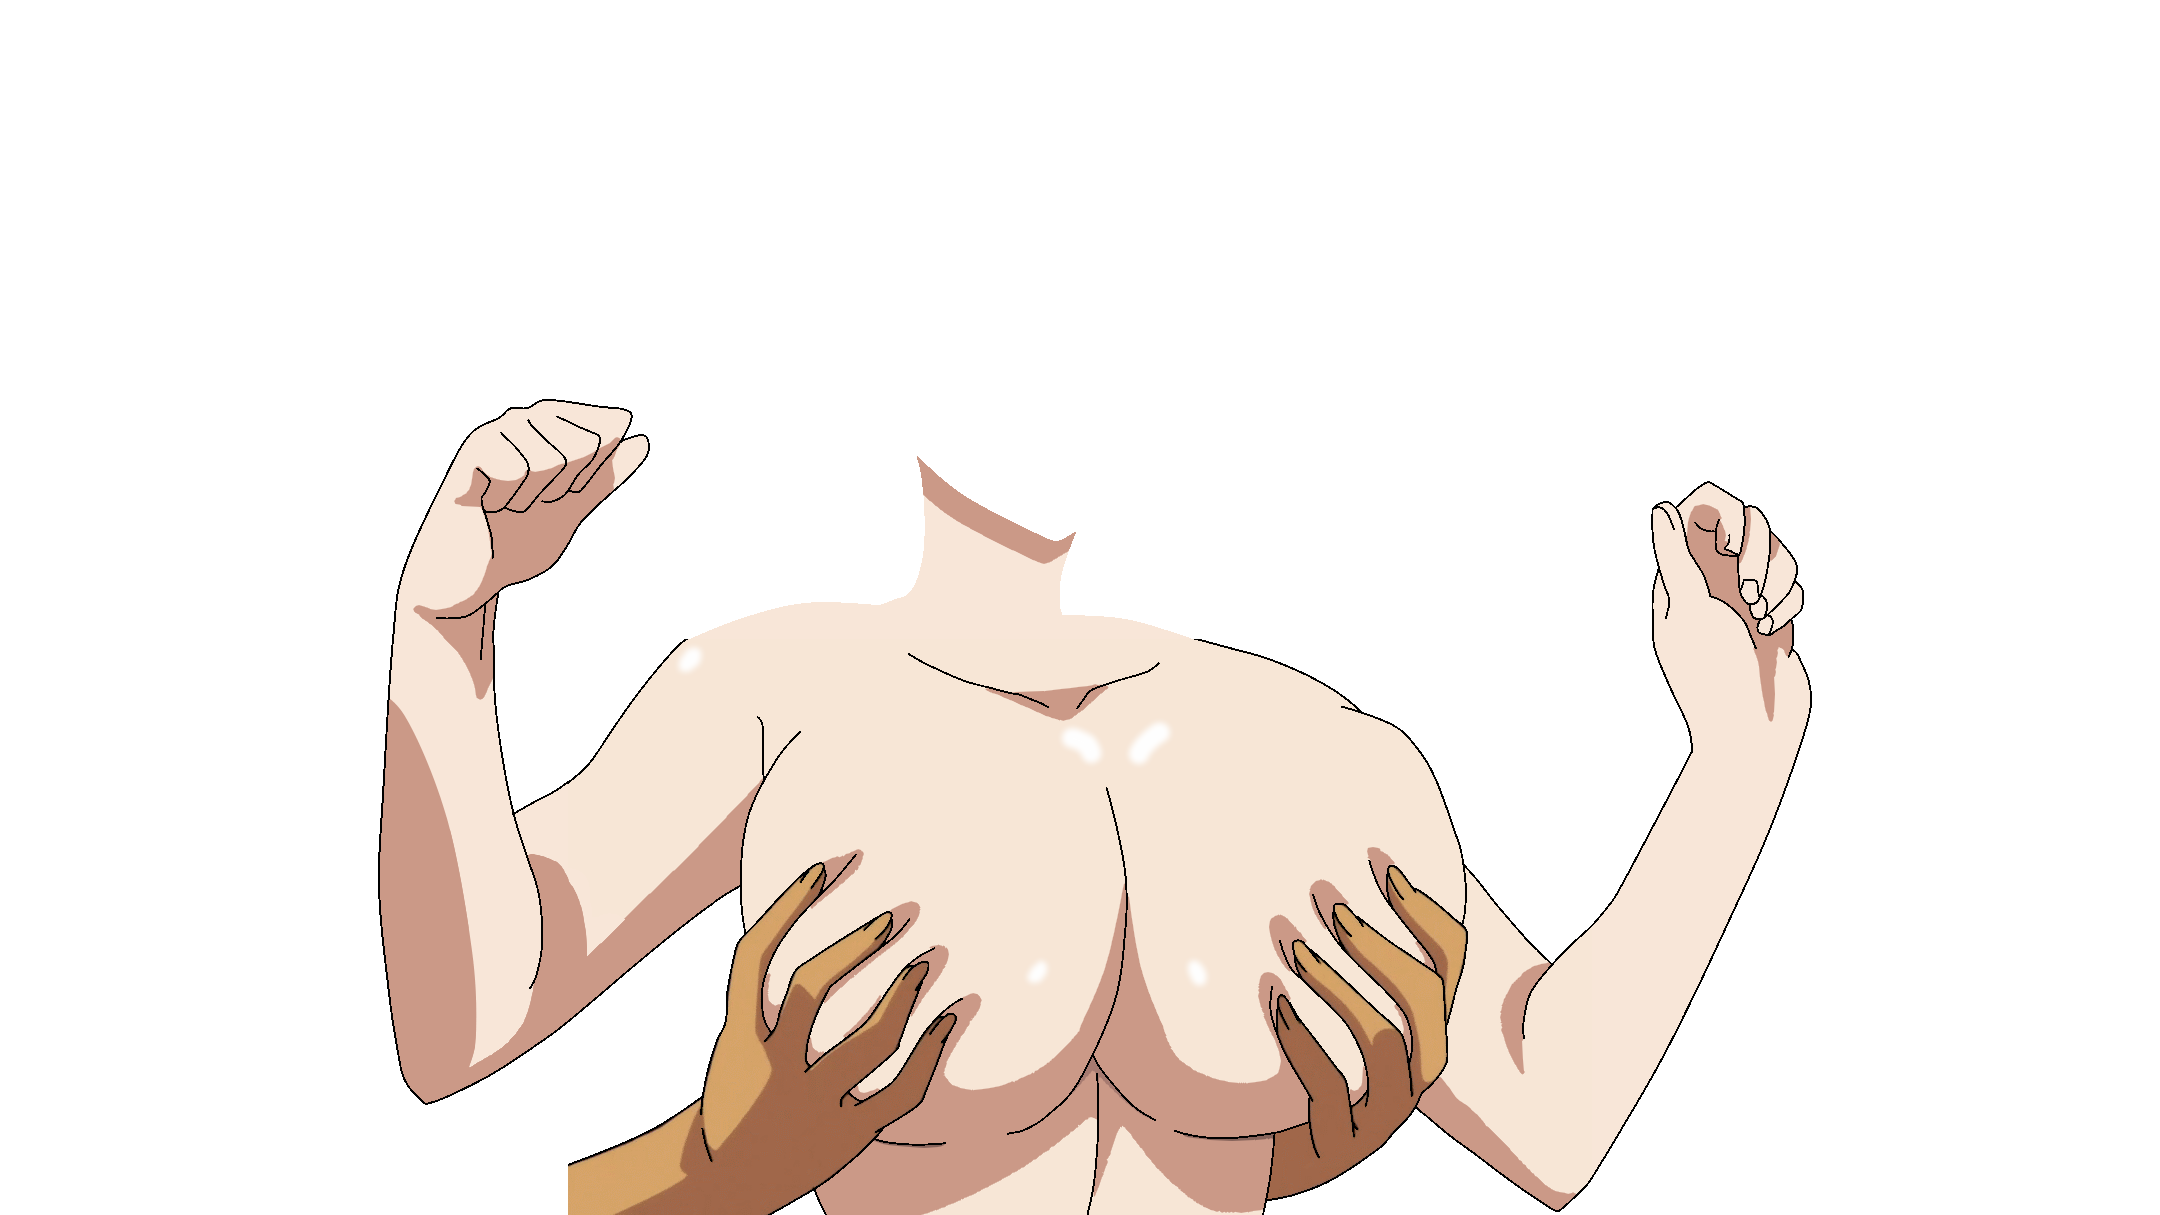
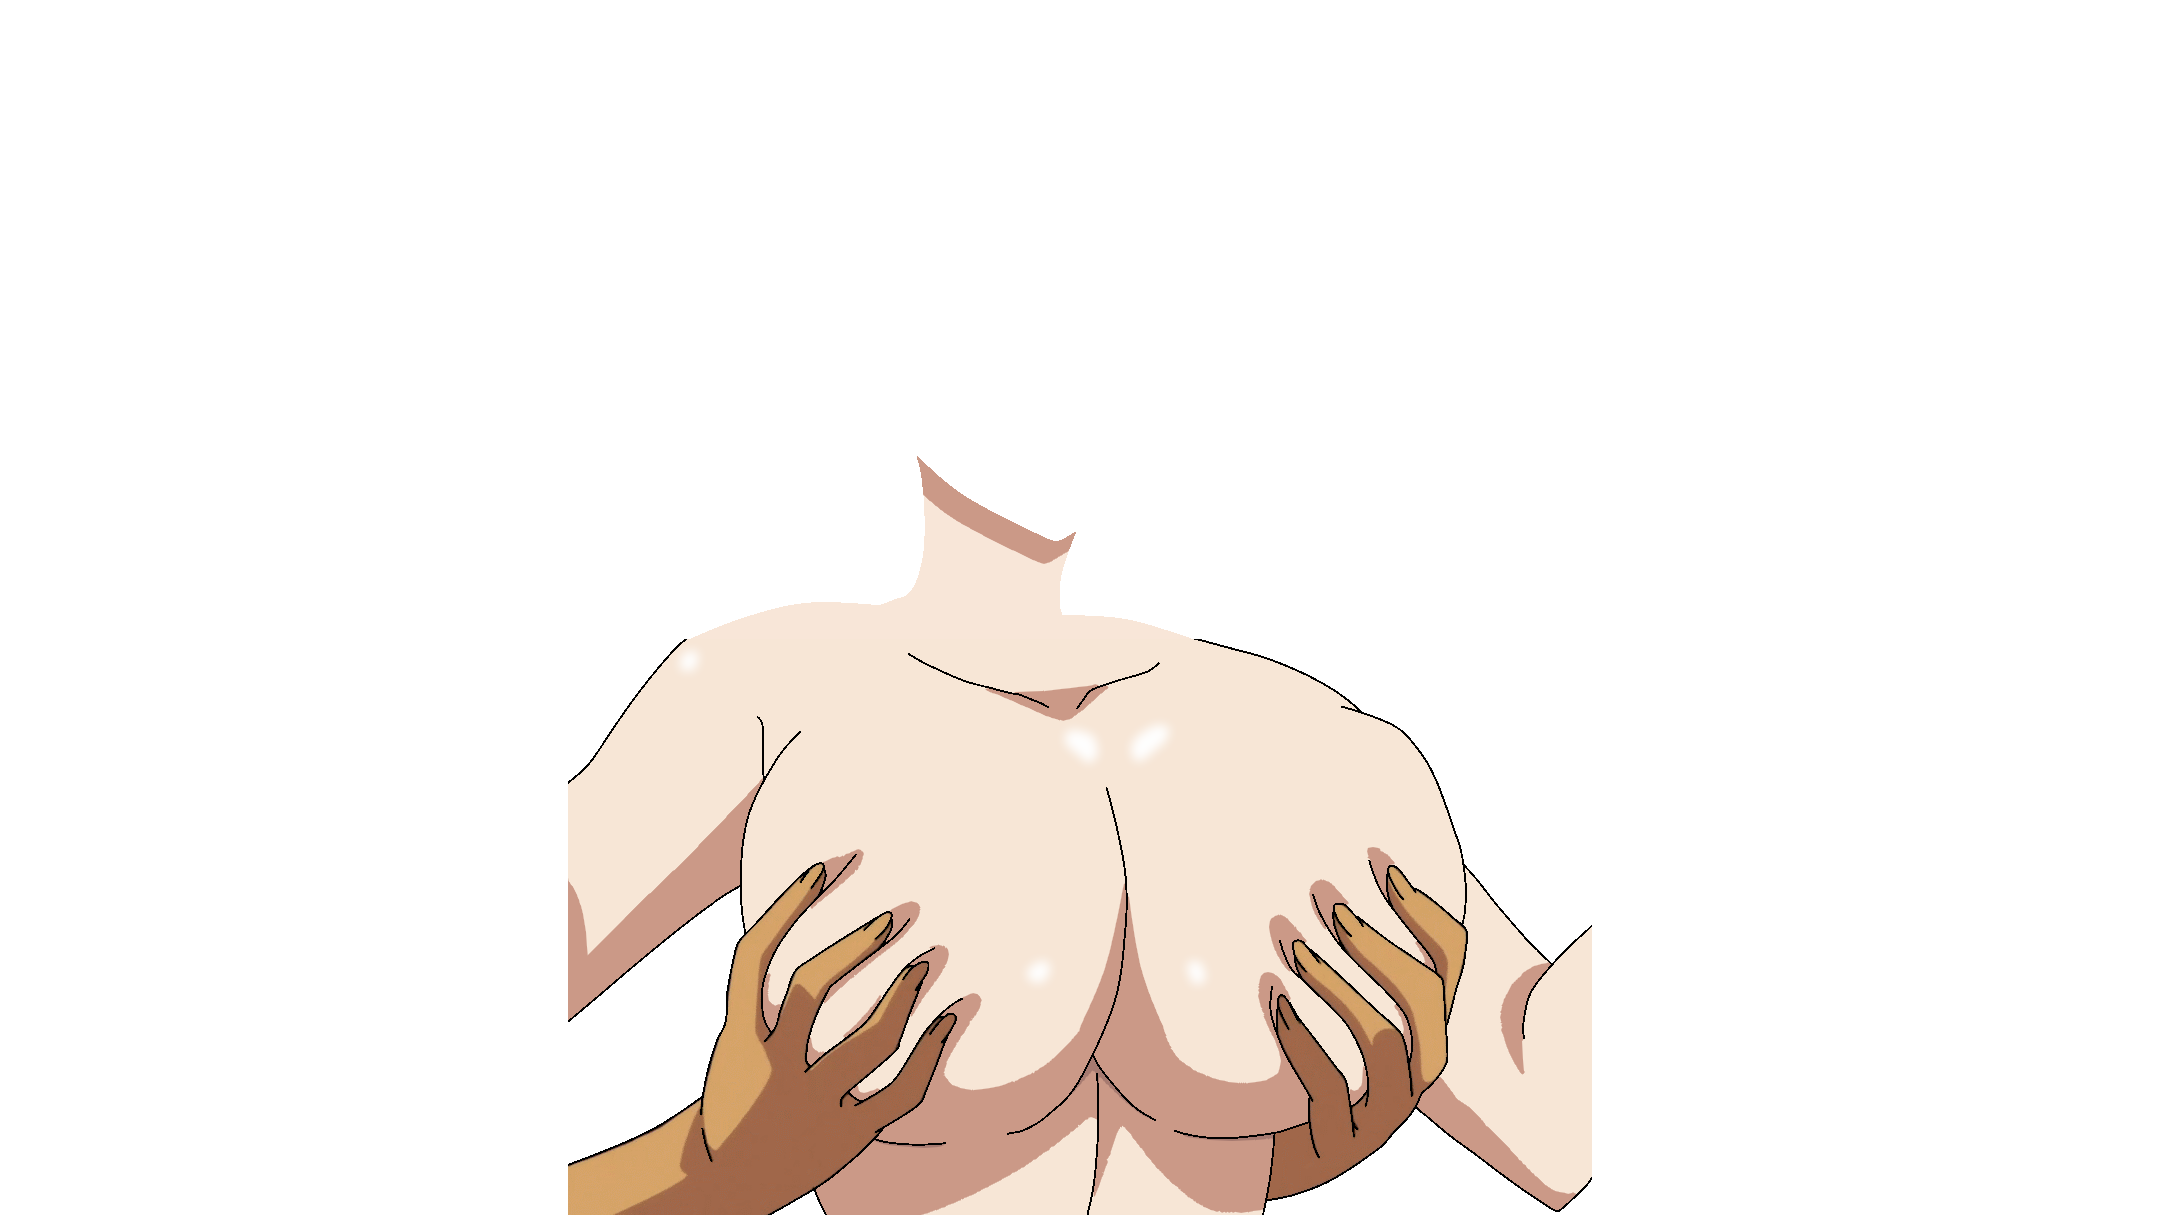
a

Changed region(s): [[0.1551, 0.3045, 0.3102, 0.9136], [0.7134, 0.3959, 0.8375, 0.9745]]

diff --git a/js/main.js b/js/main.js
@@ -93,7 +93,7 @@ function Game_load(width,height){
               break;
             case "口":
               Image[7].imageurl++;
-              if(Image[7].imageurl==8) Image[7].imageurl = 1;
+              if(Image[7].imageurl==9) Image[7].imageurl = 1;
               Image[7]._element.src = "image/mouth/"+Image[7].imageurl+".png";
               return;
               break;
@@ -121,6 +121,18 @@ function Game_load(width,height){
               Image[3].imageurl++;
               if(Image[3].imageurl==3) Image[3].imageurl = 1;
               Image[3]._element.src = "image/face/"+Image[2].body+"/"+Image[3].imageurl+".png";
+              return;
+              break;
+            case "右腕":
+              Image[10].imageurl++;
+              if(Image[10].imageurl==6) Image[10].imageurl = 1;
+              Image[10]._element.src = "image/right_arm/"+Image[2].body+"/"+Image[10].imageurl+".png";
+              return;
+              break;
+            case "左腕":
+              Image[11].imageurl++;
+              if(Image[11].imageurl==3) Image[11].imageurl = 1;
+              Image[11]._element.src = "image/left_arm/"+Image[2].body+"/"+Image[11].imageurl+".png";
               return;
               break;
             case "ハイライトオフ":
@@ -166,10 +178,53 @@ function Game_load(width,height){
               else Background2._element.src = "image/hair/0.png";
               Image[2]._element.src = "image/body/"+Image[2].body+"/"+Image[2].imageurl+".png";
               Image[3]._element.src = "image/face/"+Image[2].body+"/"+Image[3].imageurl+".png";
+              Image[10]._element.src = "image/right_arm/"+Image[2].body+"/"+Image[10].imageurl+".png";
+              Image[11]._element.src = "image/left_arm/"+Image[2].body+"/"+Image[11].imageurl+".png";
               return;
               break;
             case "コマ送り":
               move = false;
+              return;
+              break;
+            case "リセット":
+              Image[0]._element.src = "image/eyes/1.png"
+              Image[1]._element.src = "image/highlight/1.png";
+              Image[2]._element.src = "image/body/1/1.png";
+              Image[3]._element.src = "image/face/1/1.png";
+              Image[4]._element.src = "image/face/tears.png";
+              Image[5]._element.src = "image/hair/1.png";
+              Image[6]._element.src = "image/eyebrows/1.png";
+              Image[7]._element.src = "image/mouth/1.png";
+              Image[8]._element.src = "image/eyelashes/0.png";
+              Image[9]._element.src = "image/bangs/1.png";
+              Image[10]._element.src = "image/right_arm/1/1.png";
+              Image[11]._element.src = "image/left_arm/1/1.png";
+              Image[0].x = 0;
+              Image[0].y = 0;
+              Image[1].x = 0;
+              Image[1].y = 0;
+              Image[2].body = 1;
+              Image[2].x = 0;
+              Image[2].y = 0;
+              Image[4].x = 0;
+              Image[4].y = 0;
+              Image[4].x += width;
+              Image[4].y += height;
+              Image[0].imageurl = 1;
+              Image[1].imageurl = 1;
+              Image[2].imageurl = 1;
+              Image[3].imageurl = 1;
+              Image[4].imageurl = 1;
+              Image[5].imageurl = 1;
+              Image[6].imageurl = 1;
+              Image[7].imageurl = 1;
+              Image[8].imageurl = 1;
+              Image[9].imageurl = 1;
+              Image[10].imageurl = 1;
+              Image[11].imageurl = 1;
+              Ui_Button[8]._text = "ハイライトオフ";
+              Ui_Button[14]._text = "涙オン";
+              time = 0;
               return;
               break;
             case "まばたき間隔+":
@@ -282,6 +337,8 @@ function Game_load(width,height){
        Images("image/mouth/1.png",1);
        Images("image/eyelashes/0.png",1);
        Images("image/bangs/1.png",1);
+       Images("image/right_arm/1/1.png",1);
+       Images("image/left_arm/1/1.png",1);
        Buttons(0,0,"メニューを開く",0);
        Buttons(width/2,height/10*8,"↑",1);
        Buttons(width/2,height/10*9,"↓",2);
@@ -298,10 +355,11 @@ function Game_load(width,height){
        Buttons(0,height/10*7,"髪",13);
        Buttons(width/4*1,height/10*7,"涙オン",14);
        Buttons(width/4*2,height/10*7,"肌",15);
-       Buttons(0,height/10*8,"左腕",16);
-       Buttons(width/4*1,height/10*8,"右腕",17);
+       Buttons(0,height/10*8,"右腕",16);
+       Buttons(width/4*1,height/10*8,"左腕",17);
        Buttons(width/4*3,height/10*7,"リセット",18);
        Buttons(width/4*3,height/10*8,"コマ送り",19);
+
        var S_Input1 = new Entity();
        S_Input1.moveTo(width/4*3,0);
        S_Input1.width = width/4;
